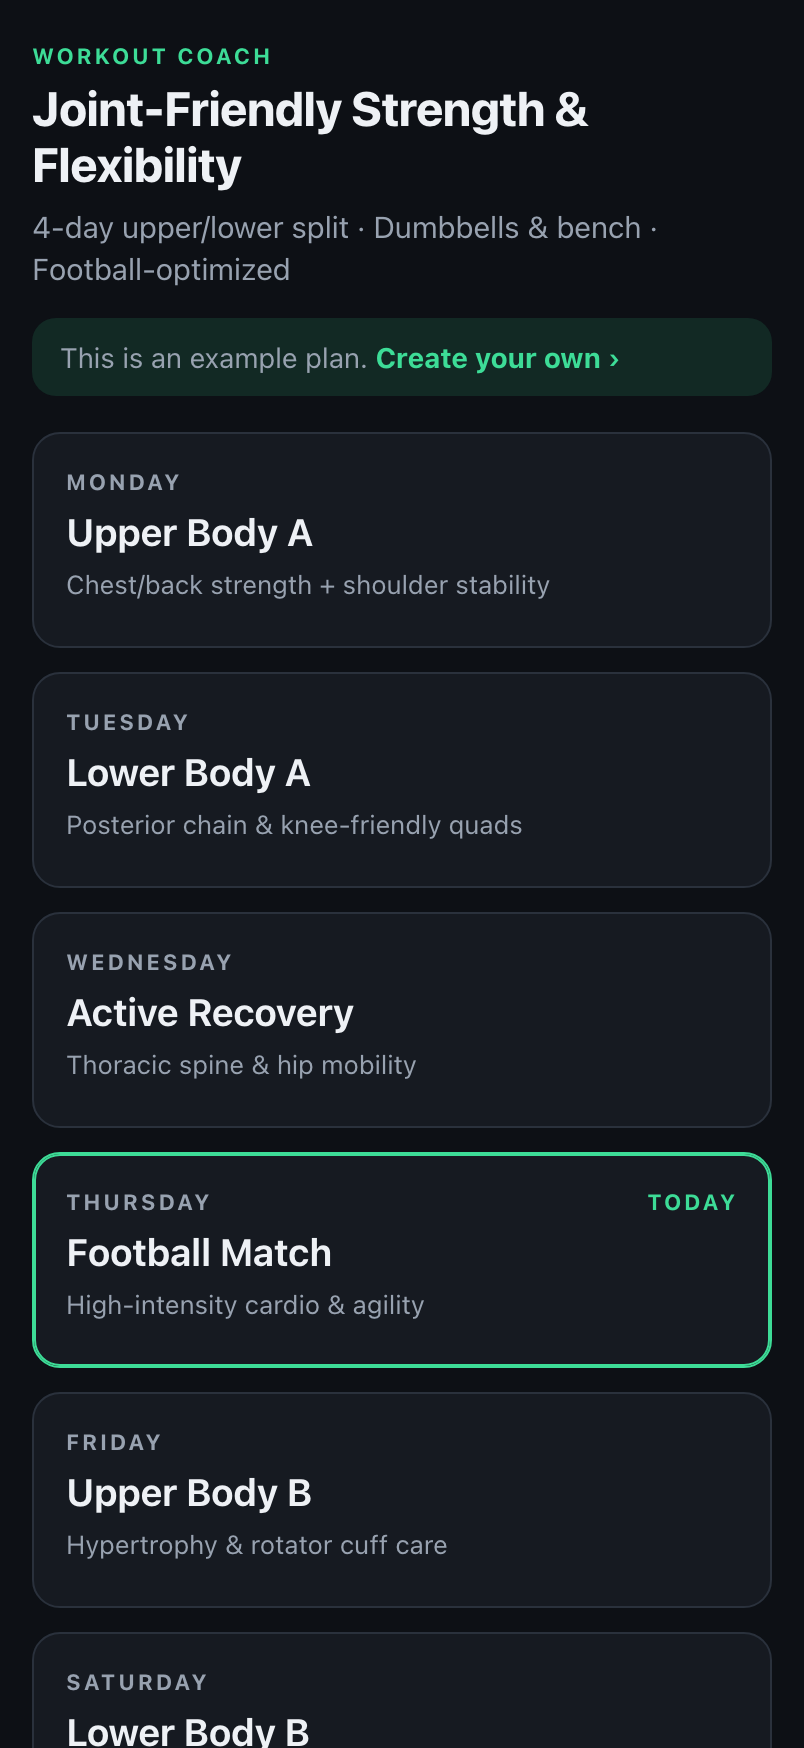
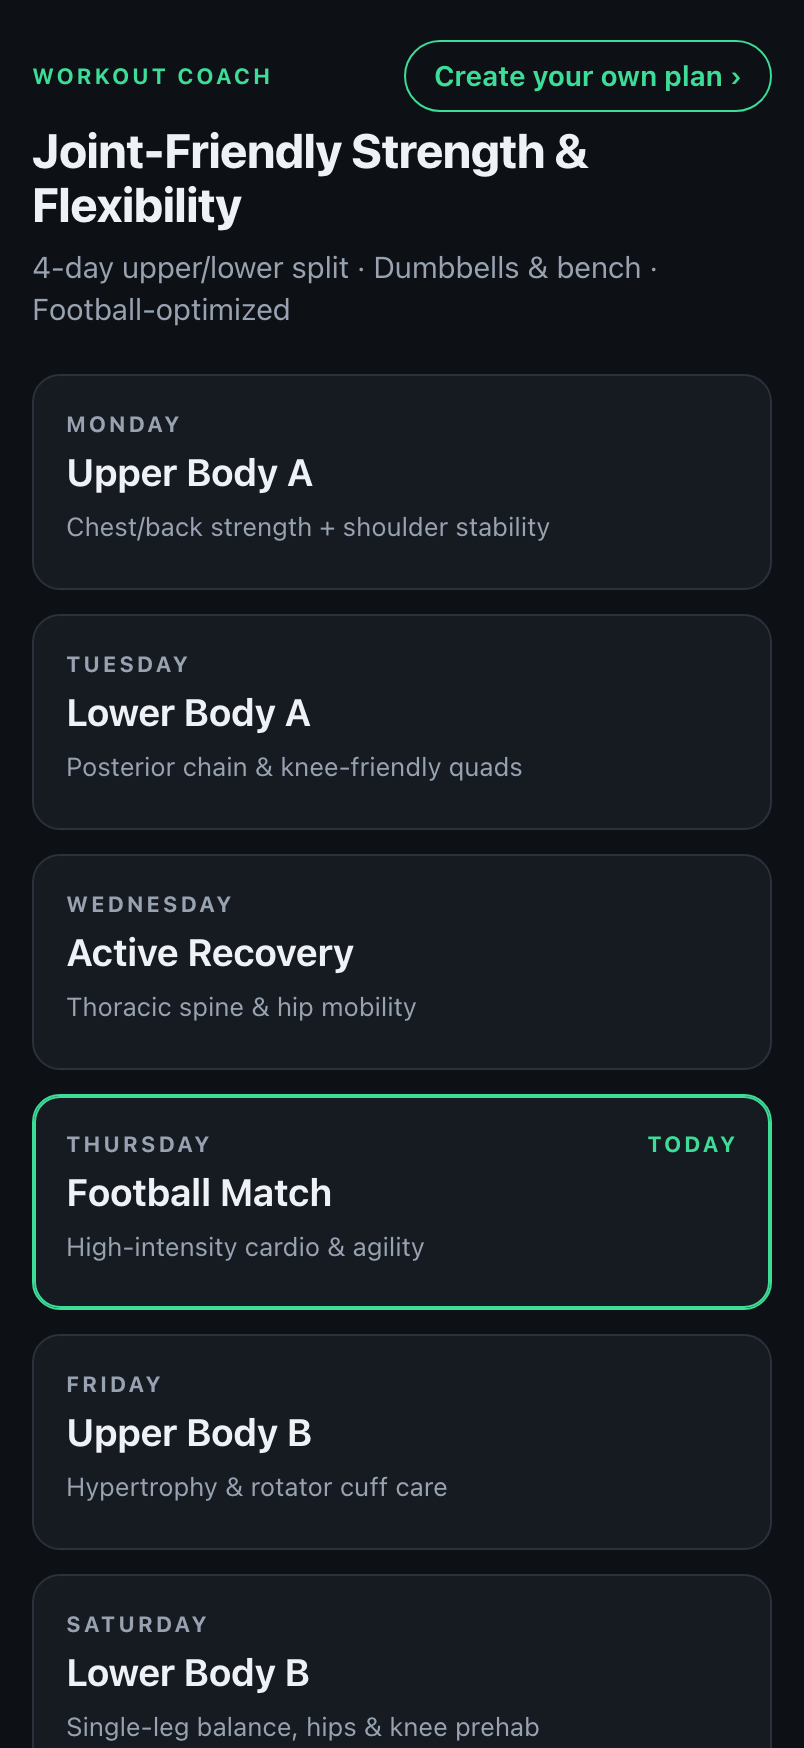
Home: invite visitors to create their own plan; Gemini opens as a link
- Replace the top strip with a "Create your own plan" button in the header
  and a tinted invitation card (three steps) right after the days, shown
  only on the example plan
- Every AI choice is a plain link so the phone can open the installed app;
  for Gemini the same tap copies the message

diff --git a/app.js b/app.js
@@ -594,8 +594,8 @@ const UI = {
         <span class="goal">${esc(day.goal || this.daySummary(day))}</span>
       </button>`).join("");
     $("days").onclick = (e) => { const b = e.target.closest(".day-card"); if (b) this.openDay(plan.days[+b.dataset.i]); };
-    $("plan-banner").hidden = !plan.example;
-    $("plan-banner").onclick = () => this.create(false);
+    $("plan-cta").hidden = !plan.example;
+    $("plan-cta").onclick = () => this.create(false);
     this.planCard();
   },
   planSummary(plan) {
@@ -610,12 +610,14 @@ const UI = {
     const n = day.items.length;
     return `${n} ${day.kind === "stretch" ? "stretch" : "exercise"}${n === 1 ? "" : day.kind === "stretch" ? "es" : "s"}`;
   },
-  // Under the days: make your own plan (on the example), or manage yours
+  // Under the days: an invitation to make your own plan (on the example), or managing yours
   planCard() {
     const plan = Plans.current, others = [...Plans.recent().filter((p) => p.link !== plan.link), ...(plan.example ? [] : [{ example: true, title: EXAMPLE_PLAN.title }])];
+    $("plan-card").classList.toggle("invite", !!plan.example);
     $("plan-card").innerHTML = (plan.example
-      ? `<div class="label">Your own plan</div>
-         <p class="card-text">Tell an AI about your goals, any aches and what you have to train with. It builds a plan for you that plays here, with the same videos and coach.</p>
+      ? `<h2 class="invite-title">Get a plan made for you</h2>
+         <p class="card-text">This week is an example. Chat with an AI you already use about your goals, any aches and what you have to train with, and it builds your own plan, with these videos and this coach.</p>
+         <ol class="steps"><li>Pick your AI</li><li>Answer a few questions</li><li>Tap the link it gives you</li></ol>
          <div class="card-actions"><button class="big-btn" id="pc-create">Create your own plan</button></div>`
       : `<div class="label">Your plan</div>
          <p class="card-text">Bookmark this page or add it to your Home Screen: the plan lives in its link.</p>
@@ -639,15 +641,14 @@ const UI = {
     $("create-intro").textContent = change
       ? "Pick an AI you use. It gets your current plan, asks what you'd like to change, and gives you a new link."
       : "Pick an AI you already use. It asks about your goals, any aches, your equipment and your time, then gives you a link to your own plan in this app. It uses your own AI account, so it's free.";
-    $("ai-list").innerHTML = AI_CHATS.map((ai, i) => ai.paste
-      ? `<button class="ai-btn" data-i="${i}">Open ${esc(ai.name)}<small>Copies the message; paste it in</small></button>`
-      : `<a class="ai-btn" href="${esc(chatLink(ai, text))}" target="_blank" rel="noopener">Open ${esc(ai.name)}</a>`).join("");
-    $("ai-list").onclick = async (e) => {
-      const b = e.target.closest("button.ai-btn"); if (!b) return;
-      const ai = AI_CHATS[+b.dataset.i];
-      const copied = await copyText(text);
-      $("create-status").textContent = copied ? `Message copied. Paste it into ${ai.name}'s message box and send.` : "Couldn't copy the message. Use the button below.";
-      window.open(ai.url, "_blank", "noopener");
+    // Every choice is a plain link, so the phone can hand it to the AI's app when it's installed.
+    // Where the chat can't take the message in its address (Gemini), the same tap copies it first.
+    $("ai-list").innerHTML = AI_CHATS.map((ai, i) => `<a class="ai-btn" data-i="${i}" href="${esc(chatLink(ai, text))}" target="_blank" rel="noopener">Open ${esc(ai.name)}${
+      ai.paste ? " <small>Copies the message; paste it in</small>" : ""}</a>`).join("");
+    $("ai-list").onclick = (e) => {
+      const a = e.target.closest("a.ai-btn"), ai = a && AI_CHATS[+a.dataset.i];
+      if (!ai?.paste) return;
+      copyText(text).then((ok) => { $("create-status").textContent = ok ? `Message copied. Paste it into ${ai.name}'s message box and send.` : "Couldn't copy the message. Use the button below."; });
     };
     $("copy-prompt").onclick = async () => { $("create-status").textContent = (await copyText(text)) ? "Message copied. Paste it into any AI chat." : "Couldn't copy the message."; };
     $("create-status").textContent = "";

diff --git a/styles.css b/styles.css
@@ -55,10 +55,17 @@ h1, h2, h3, p { margin: 0; }
 .card li { margin: 6px 0; }
 .note { color: var(--muted); font-size: 13px; margin-top: 16px; }
 .link { color: var(--muted); text-decoration: underline; font-size: 13px; }
-.brand { color: var(--accent); margin-bottom: 6px; }
-.banner { display: block; width: 100%; text-align: left; margin: -8px 0 18px; padding: 10px 14px; border-radius: 12px;
-  background: var(--accent-soft); color: var(--muted); font-size: 14px; }
-.banner b { color: var(--accent); }
+.brand-row { display: flex; align-items: center; justify-content: space-between; gap: 12px; margin-bottom: 6px; min-height: 32px; }
+.brand { color: var(--accent); }
+.cta-pill { flex: none; padding: 7px 14px; border-radius: 999px; border: 1px solid var(--accent); color: var(--accent); font-size: 14px; font-weight: 650; }
+/* the invitation on the example plan: the one tinted card on the page */
+.card.invite { background: var(--accent-soft); border-color: rgba(61, 220, 151, .45); padding: 20px; }
+.invite-title { font-size: 21px; font-weight: 750; letter-spacing: -0.01em; }
+.invite .card-text { color: var(--text); opacity: .85; max-width: 60ch; }
+.steps { display: flex; flex-wrap: wrap; gap: 8px 18px; list-style: none; counter-reset: step; margin: 14px 0 0; padding: 0; color: var(--muted); font-size: 14px; }
+.steps li { counter-increment: step; display: flex; align-items: center; gap: 8px; margin: 0; }
+.steps li::before { content: counter(step); width: 22px; height: 22px; border-radius: 50%; background: var(--accent); color: var(--accent-ink);
+  font-size: 12px; font-weight: 800; display: inline-flex; align-items: center; justify-content: center; }
 .wrap.narrow { max-width: 640px; }
 .card-text { color: var(--muted); margin: 8px 0 0; line-height: 1.45; }
 .card-actions { display: flex; gap: 8px; align-items: center; flex-wrap: wrap; margin-top: 12px; }

diff --git a/index.html b/index.html
@@ -16,16 +16,15 @@
 <!-- Home: the plan's days -->
 <section id="home" class="screen">
   <div class="wrap">
-    <div class="label brand">Workout Coach</div>
+    <div class="brand-row"><div class="label brand">Workout Coach</div><button class="cta-pill" id="plan-cta" hidden>Create your own plan ›</button></div>
     <h1 class="title" id="plan-title"></h1>
     <p class="subtitle" id="plan-subtitle"></p>
-    <button class="banner" id="plan-banner" hidden>This is an example plan. <b>Create your own ›</b></button>
     <div class="days" id="days"></div>
+    <div class="card" id="plan-card"></div>
     <div class="card" id="plan-rules">
       <div class="label" id="plan-rules-title"></div>
       <ul id="plan-rules-list"></ul>
     </div>
-    <div class="card" id="plan-card"></div>
     <p class="note">For the TV: turn off Rotation Lock, hold the phone sideways, then Control Center → Screen Mirroring.</p>
     <p class="note"><button class="link" id="diag-open">Diagnostics</button></p>
     <div class="card" id="diag" hidden>
